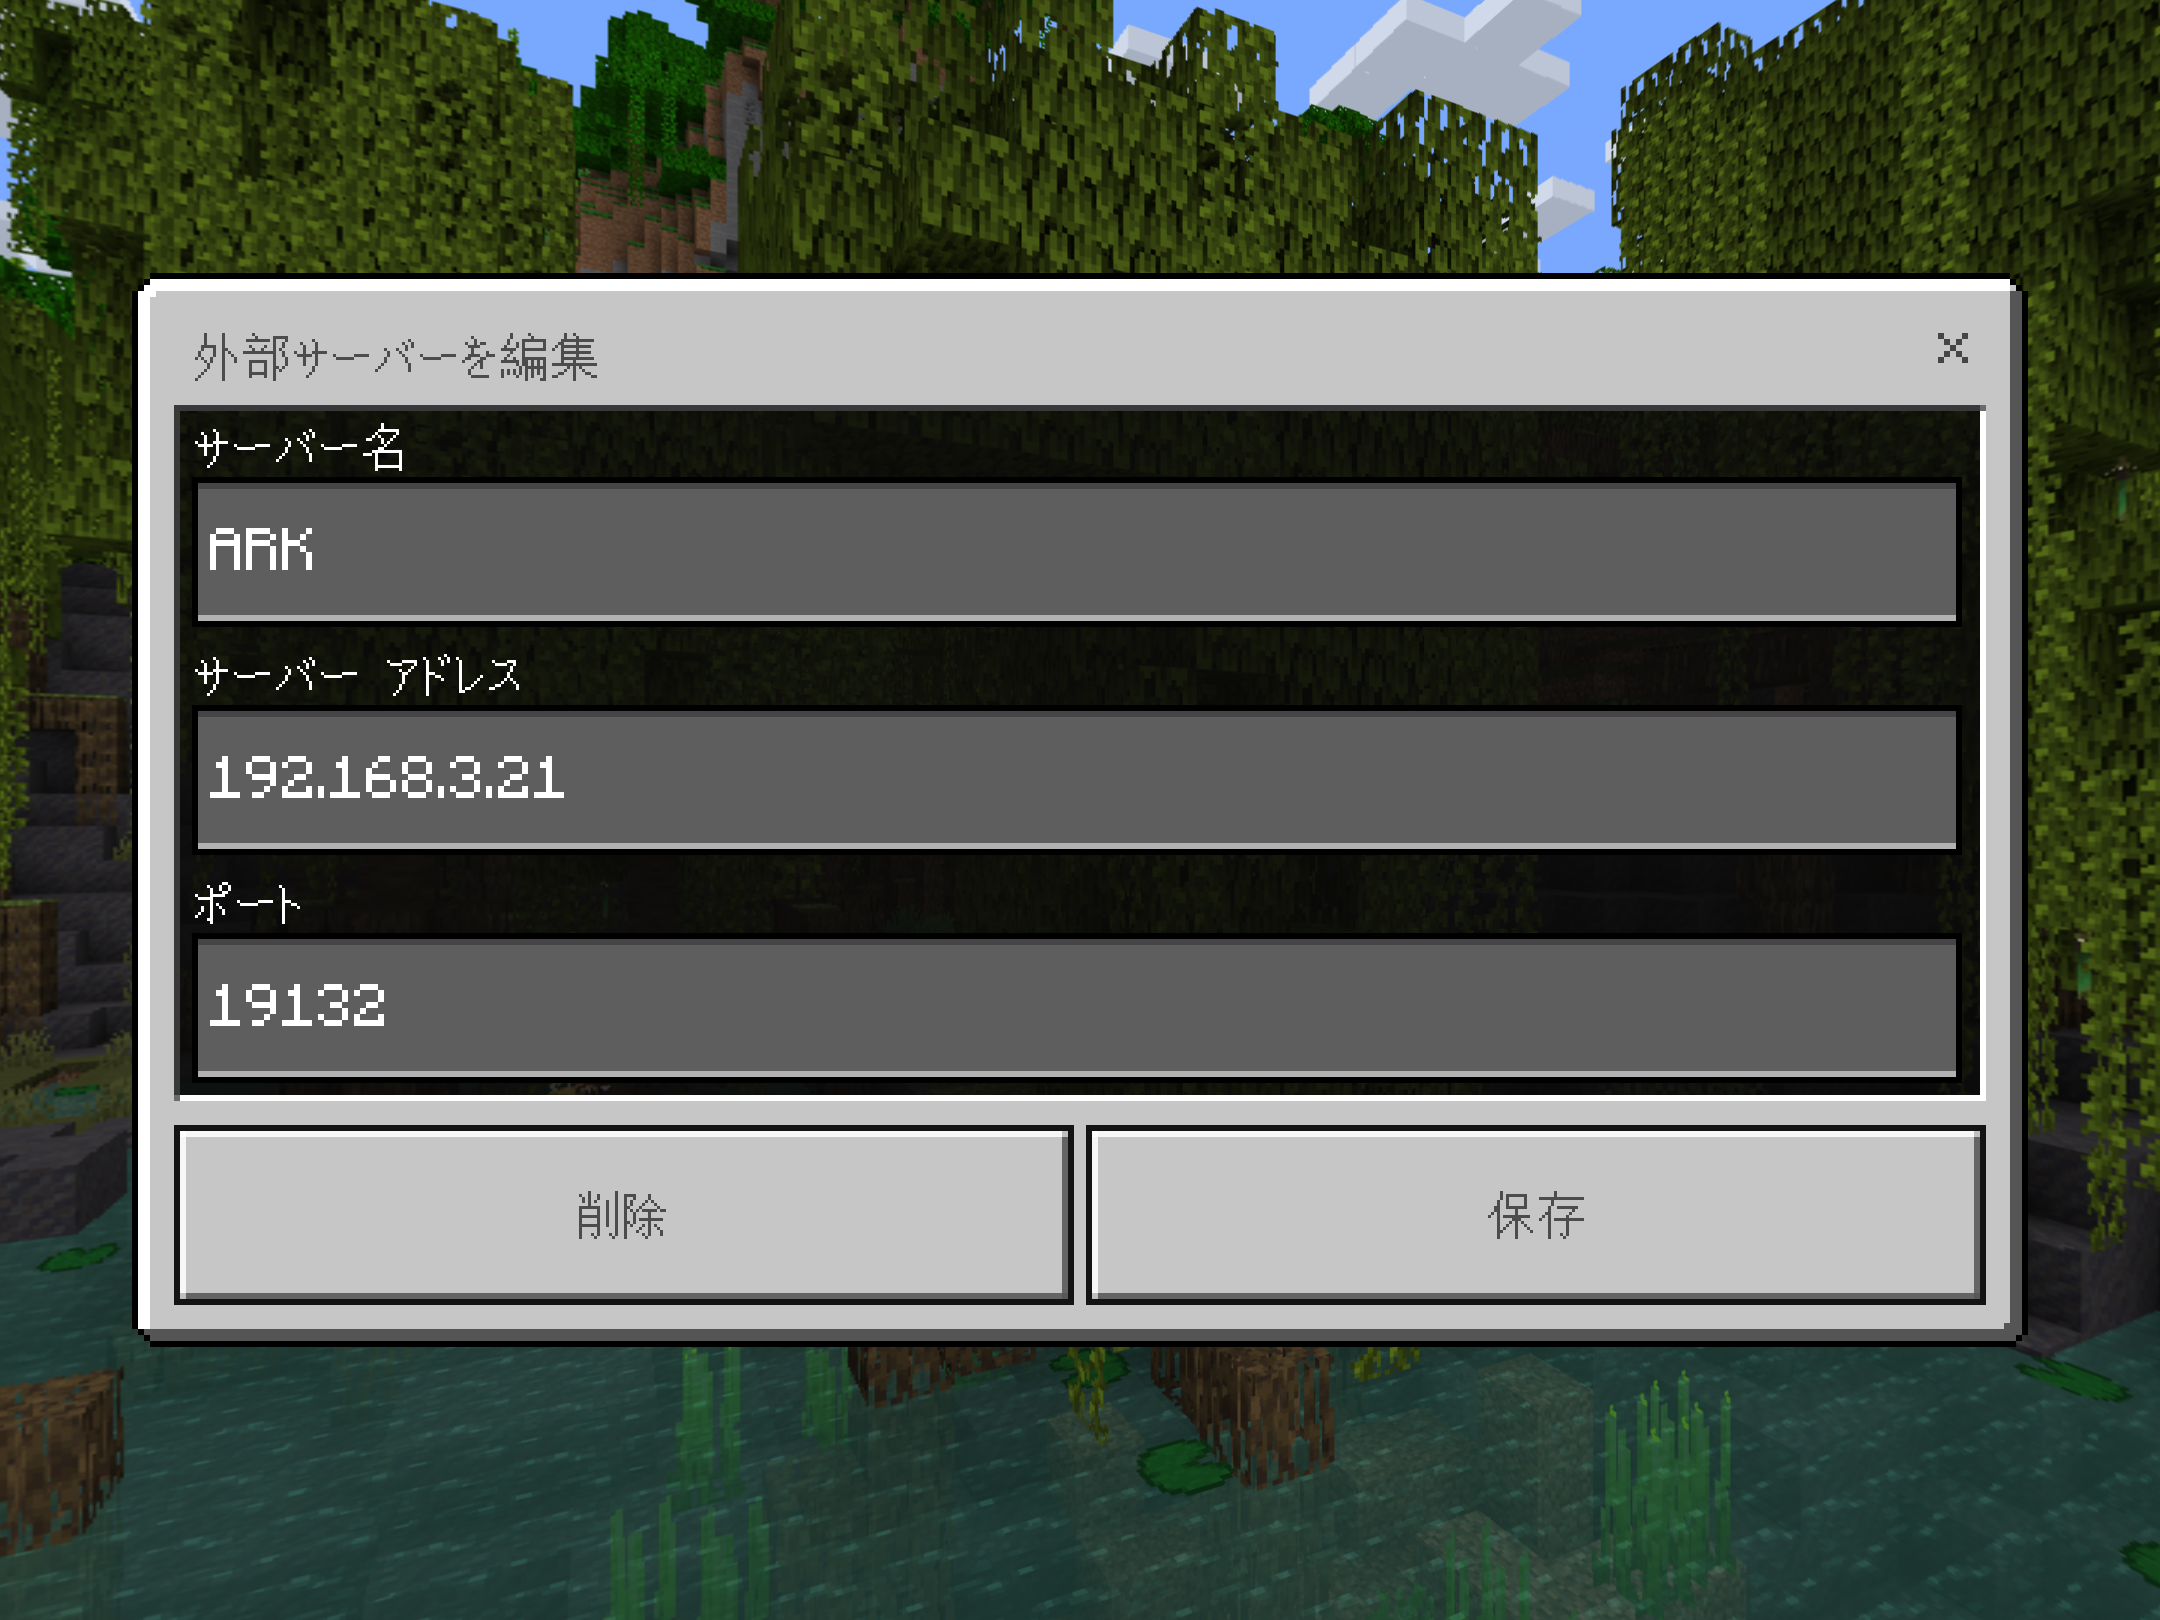
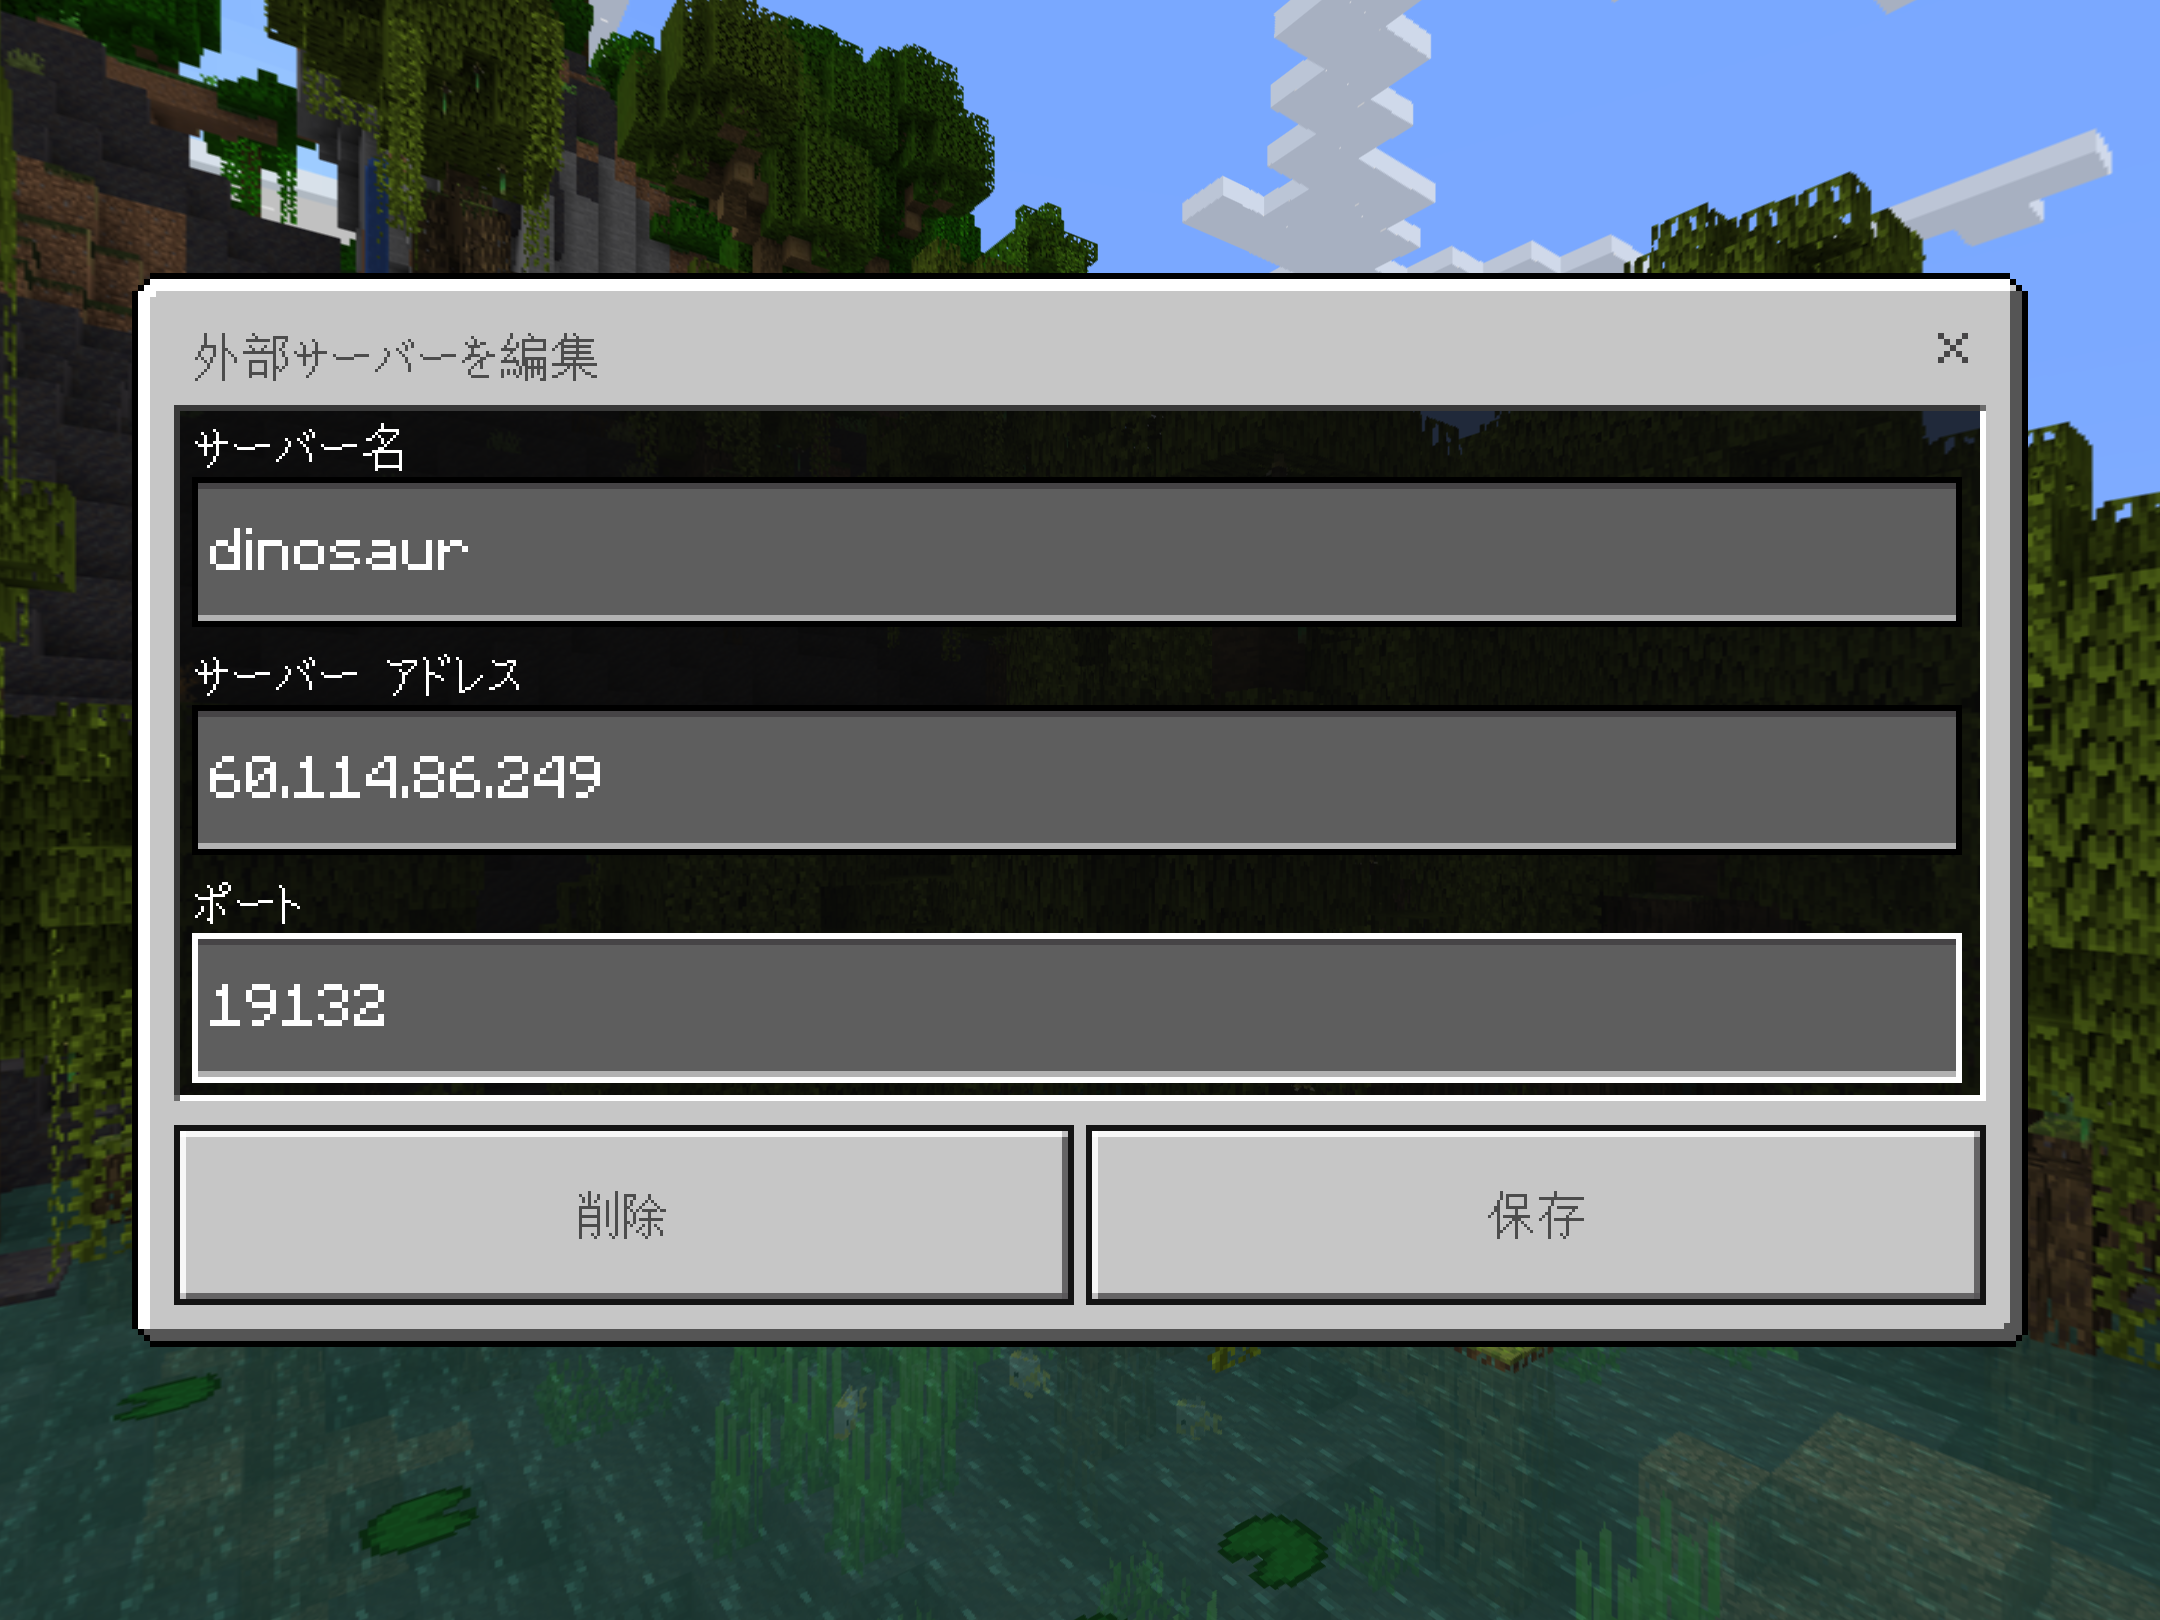
マイクラの入り方の画像の置き換え文字をちゃんとした

diff --git a/rule/dedicated_minecraft_join.html b/rule/dedicated_minecraft_join.html
@@ -25,9 +25,10 @@
             Minecraftサーバーのルールについては<a href="/rule/dedicated_minecraft.html">こちら</a>。
              <h1>参加方法 </h1>
             まずMinecraftを開き　サーバー　の項目を開きます。<br>
+            サーバーの追加というボタンを押します<br>
             <img src="/rule/images/M_join_1.png" alt="サーバーの追加というボタンを押します" style="max-width: 80vw;"><br><br>
-                <br>
-                <img src="/rule/images/M_join_2.png" alt="サーバー名は個人が自由に設定できます。サーバーアドレスとポートは写真のように登録してください" style="max-width: 80vw;"><br><br>
+                <br>サーバー名は個人が自由に設定できます。サーバーアドレスとポートは写真のように登録してください<br>
+                <img src="/rule/images/M_join_2.png" alt="サーバーアドレス:60.114.86.249  ポート:19132" style="max-width: 80vw;"><br><br>
             保存を押して登録完了です。<br>
         Switch版は本体設定などを変えて特殊な手順で登録します。ご自分で調べて写真の通りに登録してください。
         </div>
